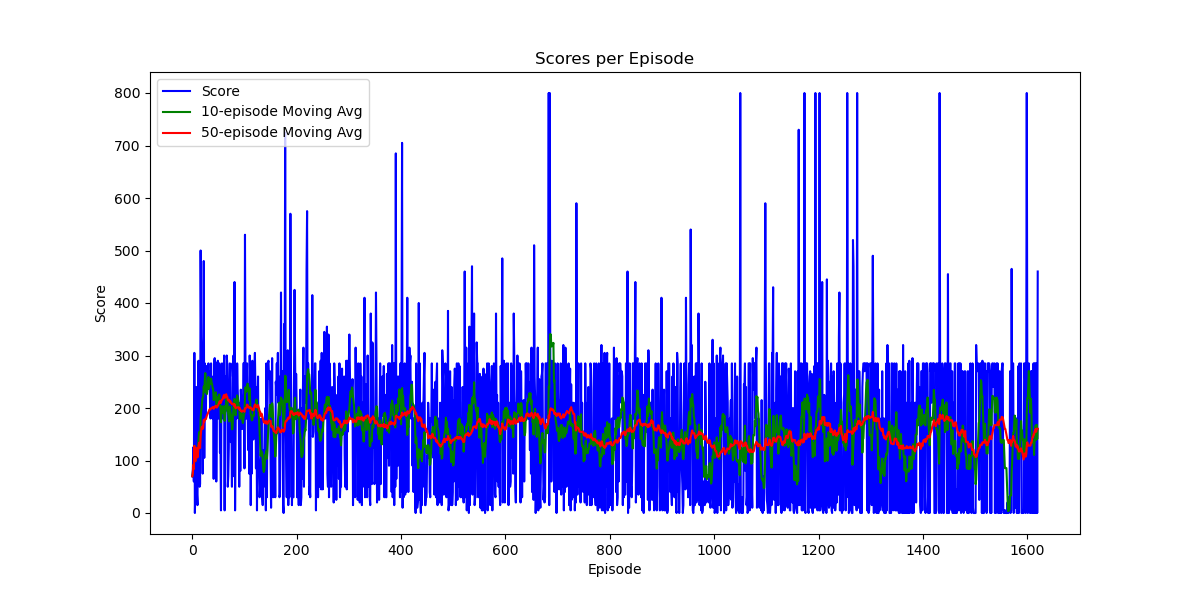
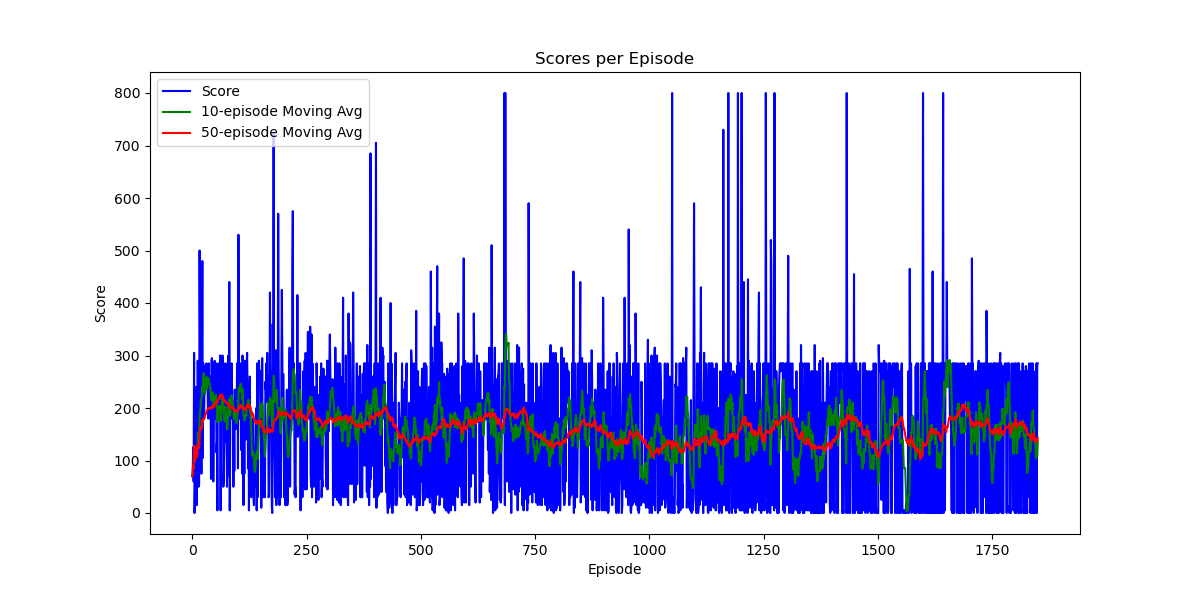
Refactor Qnet to use the Dueling architecture

diff --git a/qnet_v3/atari_qnet_v3.py b/qnet_v3/atari_qnet_v3.py
@@ -102,18 +102,24 @@ class PrioritizedReplayBuffer:
         return len(self.buffer)  # 버퍼 크기 반환
 
 
-class Qnet(nn.Module):
+class DuelingQnet(nn.Module):
     def __init__(self, num_actions):
-        super(Qnet, self).__init__()
-        self.conv1 = nn.Conv2d(4, 32, kernel_size=8, stride=4)  # 입력 채널이 4 (84x84x4)
+        super(DuelingQnet, self).__init__()
+        # Convolutional layers
+        self.conv1 = nn.Conv2d(4, 32, kernel_size=8, stride=4)
         self.conv2 = nn.Conv2d(32, 64, kernel_size=4, stride=2)
         self.conv3 = nn.Conv2d(64, 64, kernel_size=3, stride=1)
 
-        self.fc1 = nn.Linear(self._feature_size(), 512)  # 최종 연결 레이어에 대한 입력 크기를 계산
-        self.fc2 = nn.Linear(512, num_actions)  # 출력 크기는 행동 수에 해당
+        # Separate streams for value and advantage
+        self.fc_value = nn.Linear(self._feature_size(), 512)
+        self.fc_advantage = nn.Linear(self._feature_size(), 512)
+
+        # Output layers for value and advantage streams
+        self.value_output = nn.Linear(512, 1)
+        self.advantage_output = nn.Linear(512, num_actions)
 
     def _feature_size(self):
-        # CNN 출력 크기 계산을 위한 임시 데이터 처리
+        # Temporary data processing to calculate CNN output size
         return (
             nn.Sequential(self.conv1, self.conv2, self.conv3)
             .forward(torch.zeros(1, 4, 84, 84))
@@ -122,12 +128,23 @@ class Qnet(nn.Module):
         )
 
     def forward(self, x):
+        # Forward pass through convolutional layers
         x = F.relu(self.conv1(x))
         x = F.relu(self.conv2(x))
         x = F.relu(self.conv3(x))
         x = x.view(x.size(0), -1)  # Flatten
-        x = F.relu(self.fc1(x))
-        return self.fc2(x)
+
+        # Separate value and advantage streams
+        value = F.relu(self.fc_value(x))
+        advantage = F.relu(self.fc_advantage(x))
+
+        # Compute the value and advantage outputs
+        value = self.value_output(value)
+        advantage = self.advantage_output(advantage)
+
+        # Combine value and advantage to get final Q-value
+        q_value = value + advantage - advantage.mean(dim=1, keepdim=True)
+        return q_value
 
     def sample_action(self, obs, epsilon):
         # 행동 선택 메서드
@@ -149,7 +166,7 @@ class Qnet(nn.Module):
 # 훈련 함수 정의
 def train(q, q_target, memory, optimizer):
     for i in range(10):
-        s, a, r, s_prime, done_mask, indices = memory.sample(batch_size)  # indices 추가
+        s, a, r, s_prime, done_mask, indices = memory.sample(batch_size)
 
         # GPU로 이동
         s = s.float().to(device)
@@ -157,12 +174,6 @@ def train(q, q_target, memory, optimizer):
         r = r.float().to(device)
         done_mask = done_mask.float().to(device)
         a = a.to(device)
-
-        # 텐서 타입을 Float로 설정
-        s = s.float()
-        s_prime = s_prime.float()
-        r = r.float()
-        done_mask = done_mask.float()
 
         q_out = q(s)
         q_a = q_out.gather(1, a)
@@ -173,8 +184,8 @@ def train(q, q_target, memory, optimizer):
 
         target = r + gamma * max_q_prime * done_mask
 
-        # 손실 함수 계산 및 역전파
-        loss = F.mse_loss(q_a, target)
+        # Huber 손실 함수 계산 및 역전파
+        loss = F.smooth_l1_loss(q_a, target)  # Huber 손실 사용
         optimizer.zero_grad()
         loss.backward()
         optimizer.step()
@@ -245,8 +256,8 @@ def main():
         #    , render_mode="human"
     )  # 환경 초기화
     # 모델을 GPU로 이동
-    q = Qnet(6).to(device)
-    q_target = Qnet(6).to(device)
+    q = DuelingQnet(6).to(device)
+    q_target = DuelingQnet(6).to(device)
     q_target.load_state_dict(q.state_dict())
 
     # memory = ReplayBuffer() 대신에 아래 코드 사용
